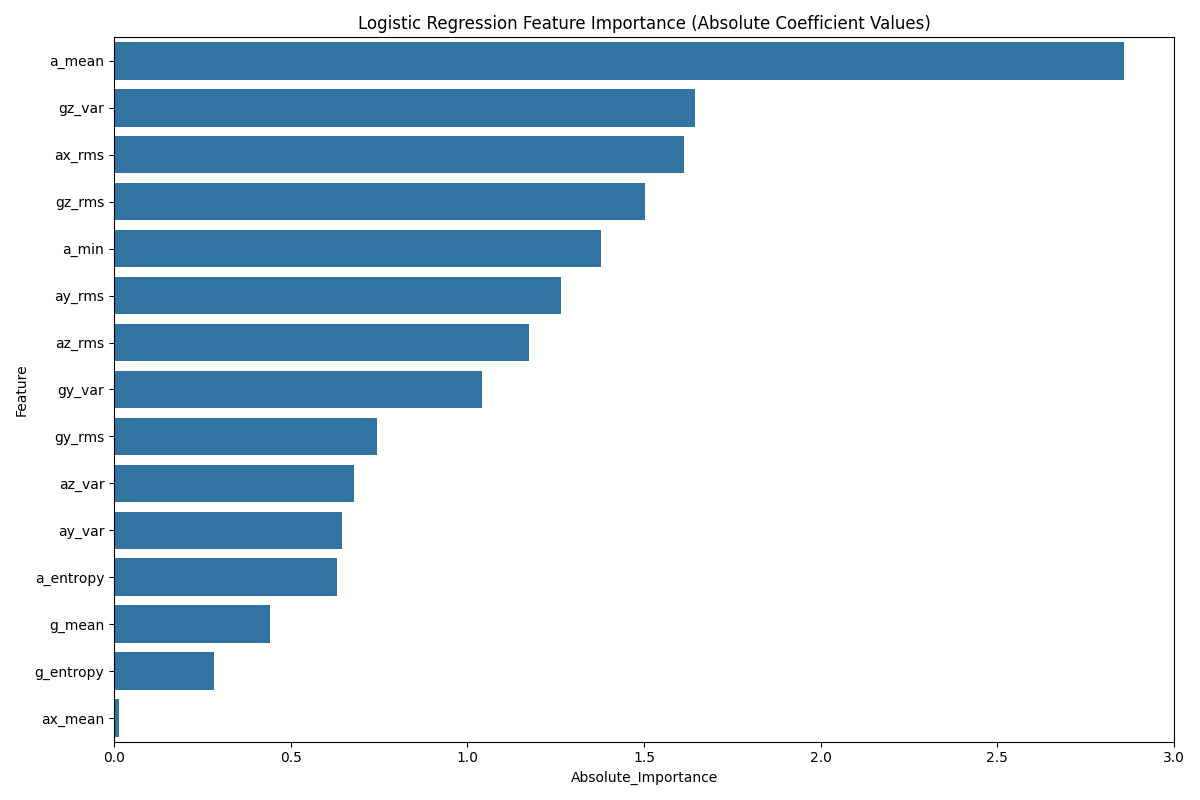
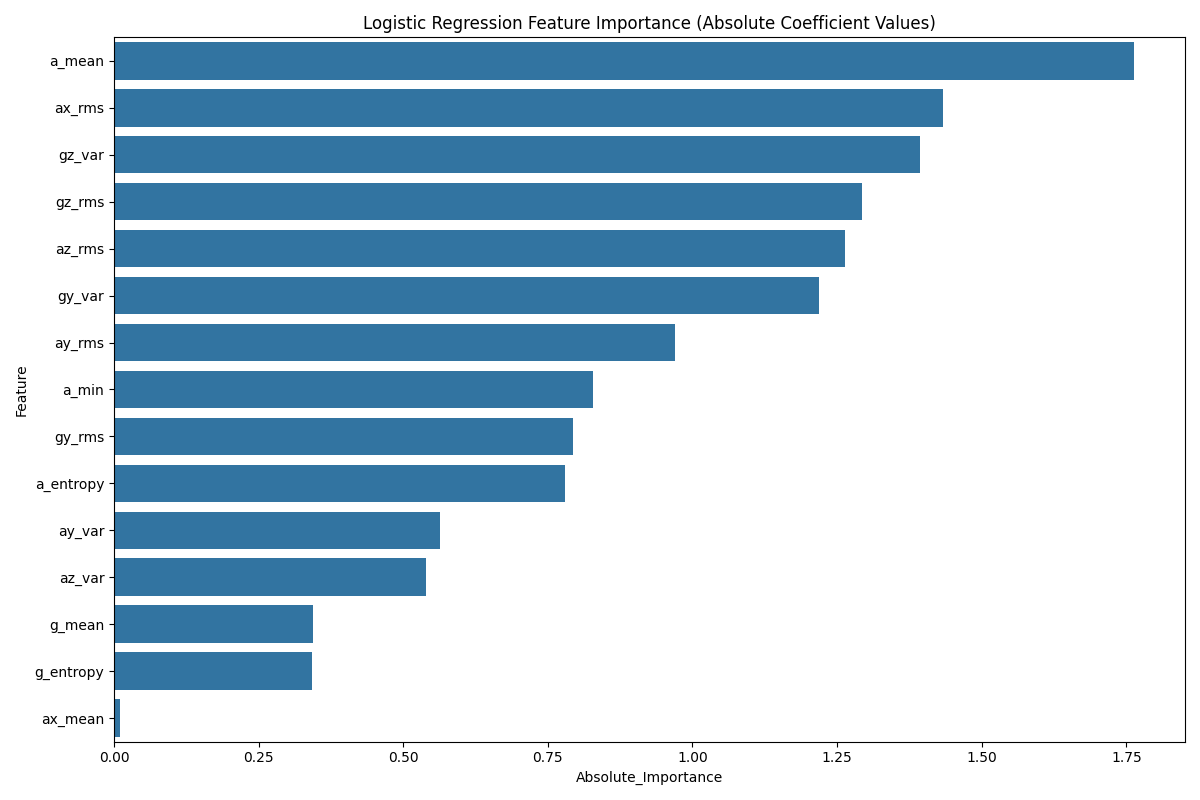
Enhance model training scripts with outlier detection and robust scaling
- Added a `detect_outliers` function using Z-score method to identify outliers in training data for Decision Tree, Logistic Regression, and Random Forest models.
- Replaced `StandardScaler` with `RobustScaler` in model pipelines to improve robustness against outliers.
- Updated training functions to print outlier counts and include outlier information in the returned results.
- Generated new visualizations for Decision Tree model output.

diff --git a/ML_Assignment_2025/models/decision_tree_model.py b/ML_Assignment_2025/models/decision_tree_model.py
@@ -5,12 +5,36 @@ import numpy as np
 import matplotlib.pyplot as plt
 import seaborn as sns
 from sklearn.model_selection import GridSearchCV
-from sklearn.preprocessing import StandardScaler
+from sklearn.preprocessing import RobustScaler
 from sklearn.tree import DecisionTreeClassifier, plot_tree
 from sklearn.metrics import classification_report, confusion_matrix, accuracy_score
 from sklearn.pipeline import Pipeline
 from sklearn.feature_selection import SelectKBest, f_classif
+from scipy import stats
 
+def detect_outliers(df, columns, threshold=3):
+    """
+    Detect outliers using Z-score method
+    
+    Parameters:
+    -----------
+    df : DataFrame
+        Input dataframe
+    columns : list
+        List of columns to check for outliers
+    threshold : float
+        Z-score threshold for outlier detection
+        
+    Returns:
+    --------
+    DataFrame
+        DataFrame with outliers marked
+    """
+    df_outliers = df.copy()
+    for col in columns:
+        z_scores = np.abs(stats.zscore(df[col]))
+        df_outliers[f'{col}_is_outlier'] = z_scores > threshold
+    return df_outliers
 
 def train_decision_tree(X_train, X_test, y_train, y_test, all_features, output_dir):
     """
@@ -38,11 +62,18 @@ def train_decision_tree(X_train, X_test, y_train, y_test, all_features, output_d
     """
     print("\n=== Training Decision Tree ===")
 
-    # Create a pipeline with feature selection, scaling, and classifier
+    # Detect outliers in training data
+    print("\nDetecting outliers in training data...")
+    X_train_outliers = detect_outliers(X_train, all_features)
+    outlier_counts = X_train_outliers[[f'{col}_is_outlier' for col in all_features]].sum()
+    print("\nOutlier counts per feature:")
+    print(outlier_counts)
+
+    # Create a pipeline with feature selection, robust scaling, and classifier
     dt_pipeline = Pipeline(
         [
             ("feature_selection", SelectKBest(f_classif, k=10)),
-            ("scaler", StandardScaler()),
+            ("scaler", RobustScaler()),
             ("classifier", DecisionTreeClassifier(random_state=42)),
         ]
     )
@@ -104,23 +135,19 @@ def train_decision_tree(X_train, X_test, y_train, y_test, all_features, output_d
     plt.savefig(os.path.join(output_dir, "dt_feature_importances.png"))
     plt.close()
 
-    # Visualize the decision tree (if not too large)
-    if dt_classifier.max_depth is not None and dt_classifier.max_depth <= 5:
-        plt.figure(figsize=(20, 10))
-        plot_tree(
-            dt_classifier,
-            feature_names=dt_selected_features,
-            class_names=[str(i) for i in dt_classifier.classes_],
-            filled=True,
-            rounded=True,
-        )
-        plt.title("Decision Tree Visualization")
-        plt.savefig(
-            os.path.join(output_dir, "decision_tree_visualization.png"),
-            dpi=300,
-            bbox_inches="tight",
-        )
-        plt.close()
+    # Plot decision tree
+    plt.figure(figsize=(20, 10))
+    plot_tree(
+        dt_classifier,
+        feature_names=dt_selected_features,
+        class_names=[str(i) for i in dt_classifier.classes_],
+        filled=True,
+        rounded=True,
+        fontsize=10,
+    )
+    plt.title("Decision Tree Visualization")
+    plt.savefig(os.path.join(output_dir, "dt_tree_visualization.png"))
+    plt.close()
 
     # Return results
     return {
@@ -128,4 +155,5 @@ def train_decision_tree(X_train, X_test, y_train, y_test, all_features, output_d
         "accuracy": dt_accuracy,
         "predictions": dt_y_pred,
         "feature_importances": dt_feature_importances,
+        "outlier_info": outlier_counts
     }

diff --git a/ML_Assignment_2025/models/random_forest_model.py b/ML_Assignment_2025/models/random_forest_model.py
@@ -5,12 +5,36 @@ import numpy as np
 import matplotlib.pyplot as plt
 import seaborn as sns
 from sklearn.model_selection import GridSearchCV
-from sklearn.preprocessing import StandardScaler
+from sklearn.preprocessing import RobustScaler
 from sklearn.ensemble import RandomForestClassifier
 from sklearn.metrics import classification_report, confusion_matrix, accuracy_score
 from sklearn.pipeline import Pipeline
 from sklearn.feature_selection import SelectKBest, f_classif
+from scipy import stats
 
+def detect_outliers(df, columns, threshold=3):
+    """
+    Detect outliers using Z-score method
+    
+    Parameters:
+    -----------
+    df : DataFrame
+        Input dataframe
+    columns : list
+        List of columns to check for outliers
+    threshold : float
+        Z-score threshold for outlier detection
+        
+    Returns:
+    --------
+    DataFrame
+        DataFrame with outliers marked
+    """
+    df_outliers = df.copy()
+    for col in columns:
+        z_scores = np.abs(stats.zscore(df[col]))
+        df_outliers[f'{col}_is_outlier'] = z_scores > threshold
+    return df_outliers
 
 def train_random_forest(X_train, X_test, y_train, y_test, all_features, output_dir):
     """
@@ -38,11 +62,18 @@ def train_random_forest(X_train, X_test, y_train, y_test, all_features, output_d
     """
     print("\n=== Training Random Forest Classifier ===")
 
-    # Create a pipeline with feature selection, scaling, and classifier
+    # Detect outliers in training data
+    print("\nDetecting outliers in training data...")
+    X_train_outliers = detect_outliers(X_train, all_features)
+    outlier_counts = X_train_outliers[[f'{col}_is_outlier' for col in all_features]].sum()
+    print("\nOutlier counts per feature:")
+    print(outlier_counts)
+
+    # Create a pipeline with feature selection, robust scaling, and classifier
     rf_pipeline = Pipeline(
         [
             ("feature_selection", SelectKBest(f_classif, k=10)),
-            ("scaler", StandardScaler()),
+            ("scaler", RobustScaler()),
             ("classifier", RandomForestClassifier(random_state=42)),
         ]
     )
@@ -109,4 +140,5 @@ def train_random_forest(X_train, X_test, y_train, y_test, all_features, output_d
         "accuracy": rf_accuracy,
         "predictions": rf_y_pred,
         "feature_importances": rf_feature_importances,
+        "outlier_info": outlier_counts
     }

diff --git a/ML_Assignment_2025/models/logistic_regression_model.py b/ML_Assignment_2025/models/logistic_regression_model.py
@@ -5,12 +5,36 @@ import numpy as np
 import matplotlib.pyplot as plt
 import seaborn as sns
 from sklearn.model_selection import GridSearchCV
-from sklearn.preprocessing import StandardScaler
+from sklearn.preprocessing import RobustScaler
 from sklearn.linear_model import LogisticRegression
 from sklearn.metrics import classification_report, confusion_matrix, accuracy_score
 from sklearn.pipeline import Pipeline
 from sklearn.feature_selection import SelectKBest, f_classif
+from scipy import stats
 
+def detect_outliers(df, columns, threshold=3):
+    """
+    Detect outliers using Z-score method
+    
+    Parameters:
+    -----------
+    df : DataFrame
+        Input dataframe
+    columns : list
+        List of columns to check for outliers
+    threshold : float
+        Z-score threshold for outlier detection
+        
+    Returns:
+    --------
+    DataFrame
+        DataFrame with outliers marked
+    """
+    df_outliers = df.copy()
+    for col in columns:
+        z_scores = np.abs(stats.zscore(df[col]))
+        df_outliers[f'{col}_is_outlier'] = z_scores > threshold
+    return df_outliers
 
 def train_logistic_regression(
     X_train, X_test, y_train, y_test, all_features, output_dir
@@ -40,11 +64,18 @@ def train_logistic_regression(
     """
     print("\n=== Training Logistic Regression ===")
 
-    # Create a pipeline with feature selection, scaling, and classifier
+    # Detect outliers in training data
+    print("\nDetecting outliers in training data...")
+    X_train_outliers = detect_outliers(X_train, all_features)
+    outlier_counts = X_train_outliers[[f'{col}_is_outlier' for col in all_features]].sum()
+    print("\nOutlier counts per feature:")
+    print(outlier_counts)
+
+    # Create a pipeline with feature selection, robust scaling, and classifier
     lr_pipeline = Pipeline(
         [
             ("feature_selection", SelectKBest(f_classif, k=10)),
-            ("scaler", StandardScaler()),
+            ("scaler", RobustScaler()),
             ("classifier", LogisticRegression(random_state=42, max_iter=1000)),
         ]
     )
@@ -148,4 +179,5 @@ def train_logistic_regression(
         "accuracy": lr_accuracy,
         "predictions": lr_y_pred,
         "coefficients": lr_coeffs_df,
+        "outlier_info": outlier_counts
     }
